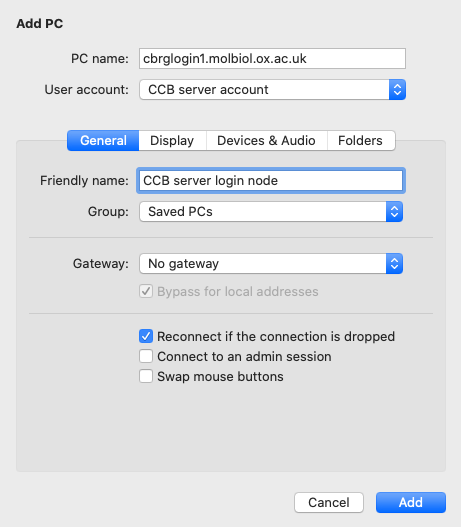
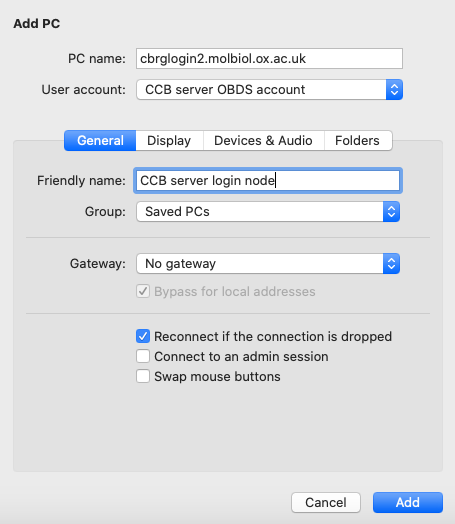
Update screenshots for Microsoft Remote Desktop setup (#12)
* Update screenshots

* Fix image link

diff --git a/precourse/macos/items/microsoft_remote_desktop.md b/precourse/macos/items/microsoft_remote_desktop.md
@@ -16,7 +16,8 @@ Briefly, once you have installed the Microsoft Remote Desktop client:
 <img src="img/launchpad-microsoft-remote-desktop.png">
 
 - Click the icon to launch the application.
-- In the menu bar, click `Connections`, then `Add PC`.
+- In the menu bar at the top of your screen, click `Connections`, then `Add PC`.
+  + Alternatively, in the application window, click of `+` then `Add PC` (screenshot below).
 
 <img src="img/remote-desktop-add-pc.png">
 
@@ -29,7 +30,7 @@ Briefly, once you have installed the Microsoft Remote Desktop client:
   + In `Password`, type your account password for the CCB server.
   + In `Friendly name:`, optionally type something memorable (e.g., "CCB server OBDS account").
 
-<img src="img/remote-desktop-user-account.png">
+<img src="img/remote-desktop-user-configuration.png">
 
 - In `Friendly name:`, optionally type something memorable (e.g., "CCB server login node").
 
